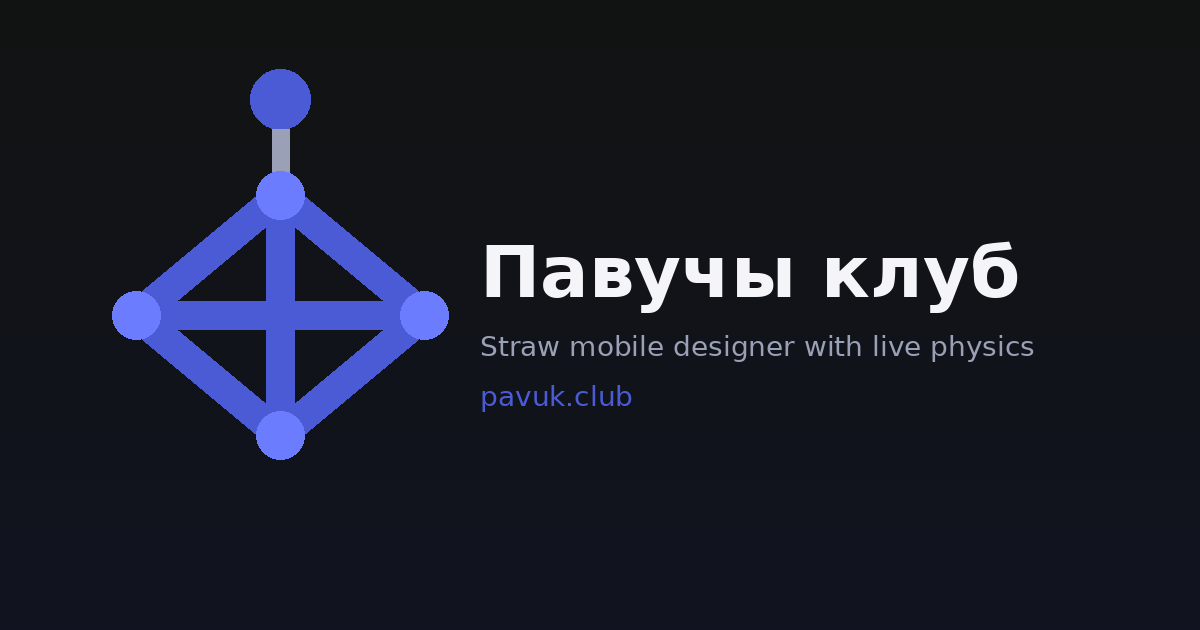
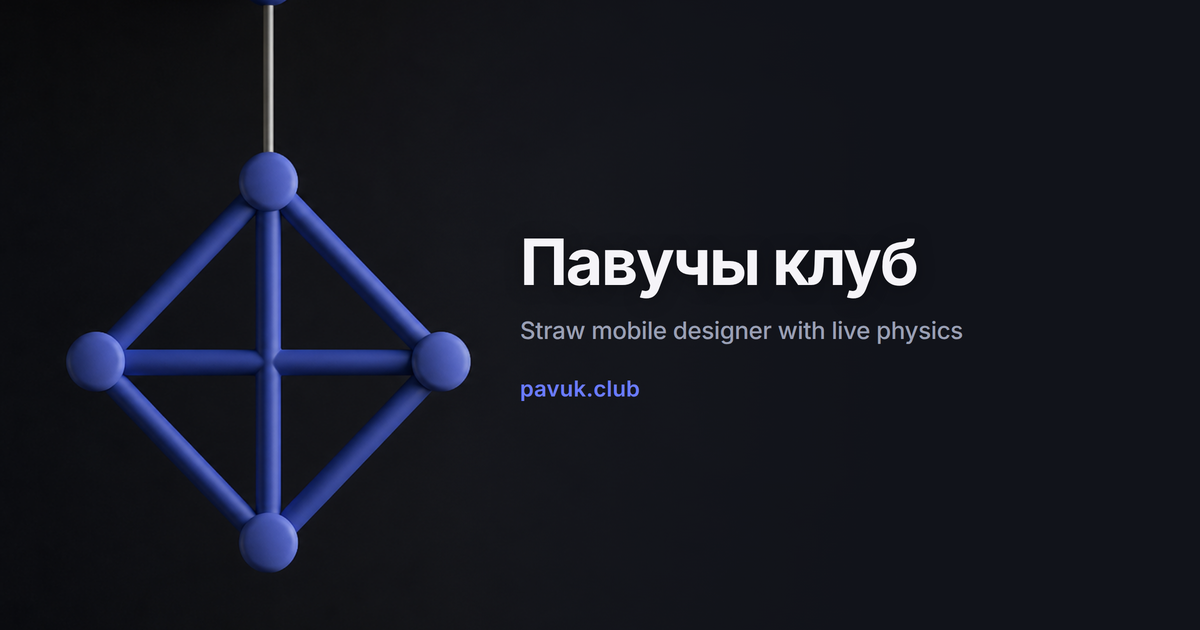
Replace social cover with branded 3D meta image
Swap the flat OG banner for a 1200×630 cover of the hanging
himmeli mark with title, tagline, and pavuk.club, and wire it
through Open Graph, Twitter, JSON-LD, and cache headers.

Changed region(s): [[0.0308, 0.0, 0.8633, 0.9048]]

diff --git a/index.html b/index.html
@@ -22,9 +22,15 @@
       content="Browser-based straw mobile (himmeli) designer with live physics"
     />
     <meta property="og:url" content="https://pavuk.club/" />
-    <meta property="og:image" content="https://pavuk.club/og-image.png" />
+    <meta property="og:image" content="https://pavuk.club/og-image.png?v=2" />
+    <meta property="og:image:secure_url" content="https://pavuk.club/og-image.png?v=2" />
+    <meta property="og:image:type" content="image/png" />
     <meta property="og:image:width" content="1200" />
     <meta property="og:image:height" content="630" />
+    <meta
+      property="og:image:alt"
+      content="Павучы клуб — straw mobile designer with live physics"
+    />
 
     <meta name="twitter:card" content="summary_large_image" />
     <meta name="twitter:title" content="Павучы клуб" />
@@ -32,7 +38,11 @@
       name="twitter:description"
       content="Browser-based straw mobile (himmeli) designer with live physics"
     />
-    <meta name="twitter:image" content="https://pavuk.club/og-image.png" />
+    <meta name="twitter:image" content="https://pavuk.club/og-image.png?v=2" />
+    <meta
+      name="twitter:image:alt"
+      content="Павучы клуб — straw mobile designer with live physics"
+    />
 
     <script type="application/ld+json">
       {
@@ -42,7 +52,9 @@
         "url": "https://pavuk.club/",
         "description": "Browser-based straw mobile (himmeli) designer with live physics",
         "applicationCategory": "DesignApplication",
-        "operatingSystem": "Any"
+        "operatingSystem": "Any",
+        "image": "https://pavuk.club/og-image.png?v=2",
+        "screenshot": "https://pavuk.club/og-image.png?v=2"
       }
     </script>
 
